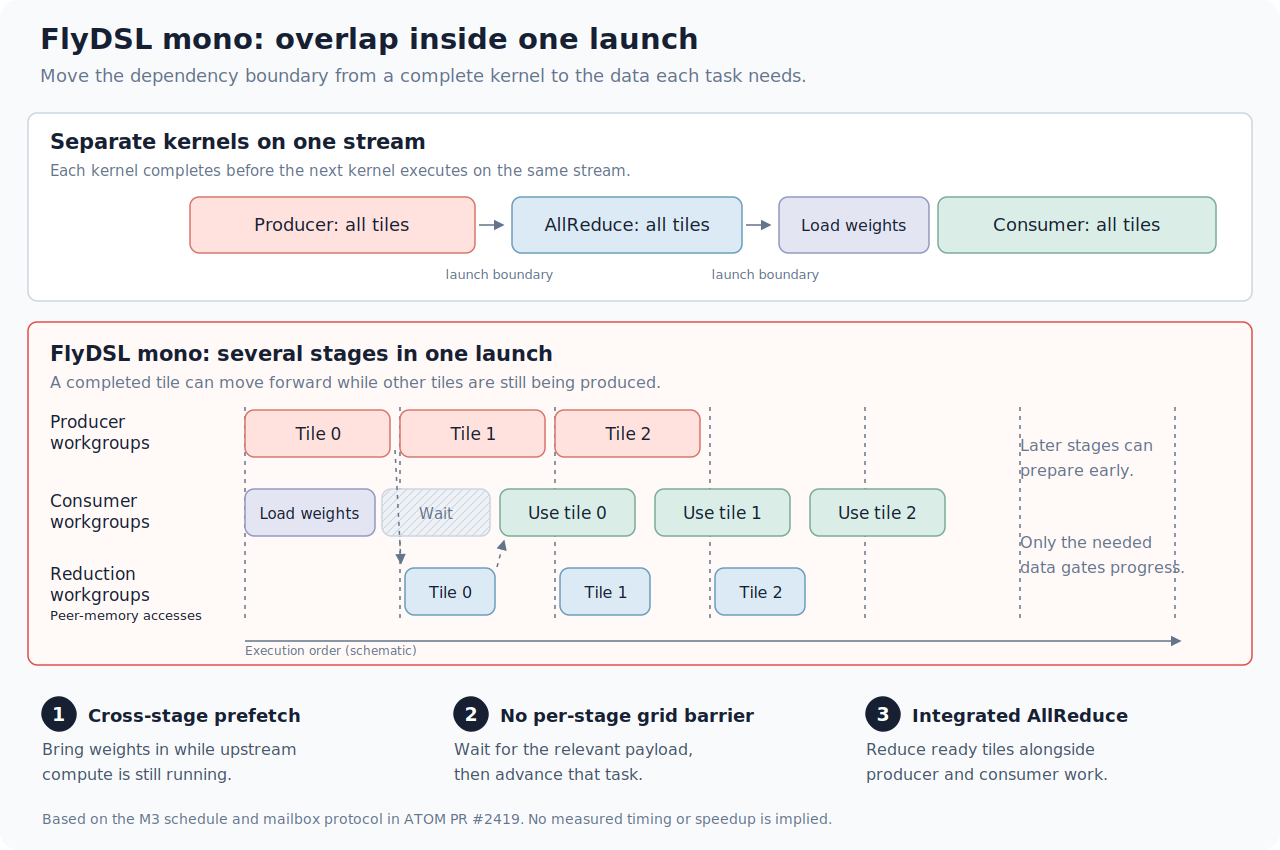
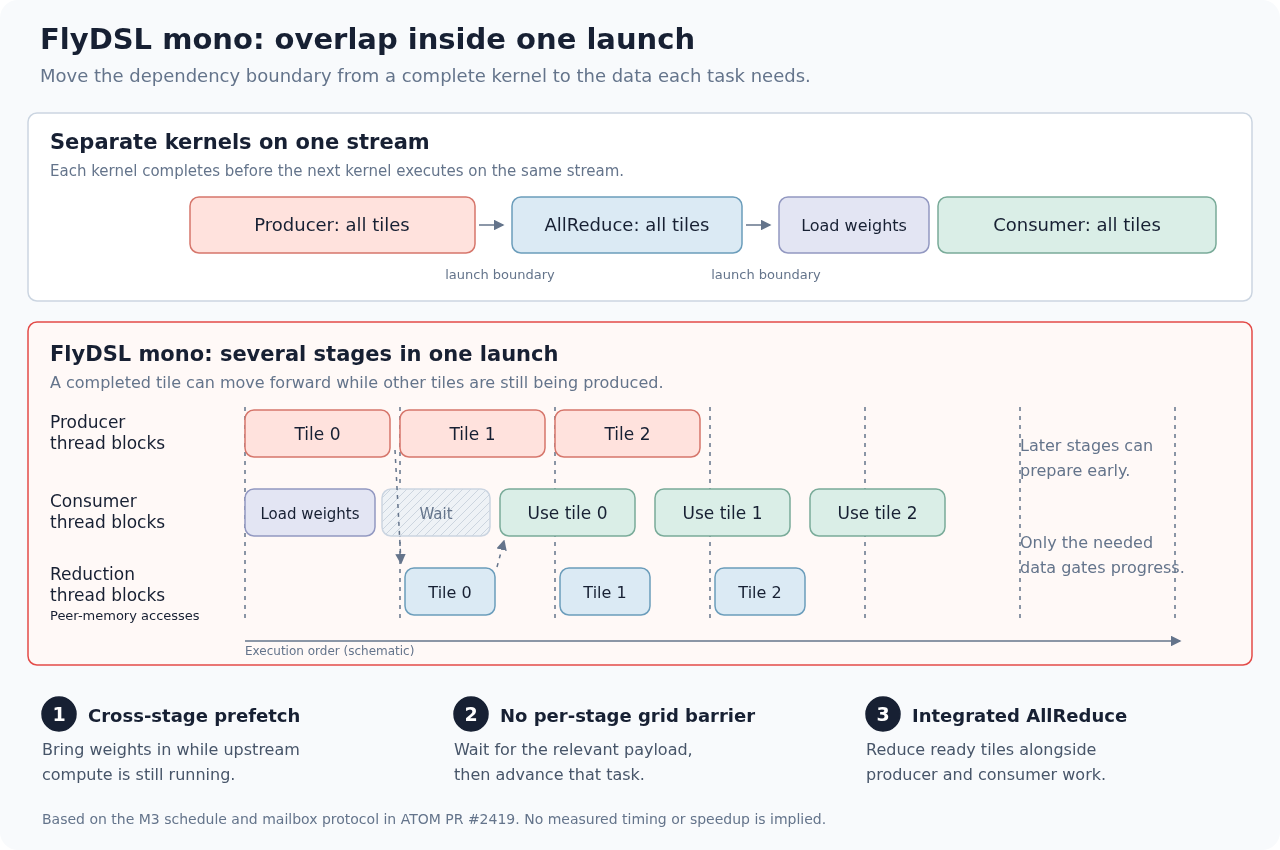
Center ATOM implementation and standardize thread block terminology

diff --git a/blogs/software-tools-optimization/flydsl-atom-mono-kernels/README.md b/blogs/software-tools-optimization/flydsl-atom-mono-kernels/README.md
@@ -7,12 +7,12 @@ thumbnail: 'mono-overlap.png'
 tags: AI/ML, Performance
 category: Software tools & optimizations
 target_audience: GPU kernel developers and LLM inference engineers
-key_value_propositions: Explains how FlyDSL gives developers control over decode scheduling, with a MiniMax-M3 case study in ATOM and measured throughput and interactivity gains under controlled replay in vLLM.
+key_value_propositions: Explains how ATOM implements mono decode with FlyDSL and how vLLM adapts ATOM's components, with measured throughput and interactivity gains under controlled replay.
 language: English
 myst:
     html_meta:
         "property=og:locale": "en_US"
-        "description lang=en": "Explore how ATOM uses FlyDSL mono kernels for high-interactivity LLM serving, with scheduling examples and controlled measurements of reuse in vLLM."
+        "description lang=en": "Explore FlyDSL mono decode in ATOM for MiniMax-M3 and DeepSeek-V4.1, and the extension of ATOM's components to vLLM with controlled serving measurements."
         "keywords": "FlyDSL, mono kernel, interactivity, AgentX, InferenceX, ATOM, vLLM, MiniMax-M3, DeepSeek-V4.1-Flash, TileRT, ROCm, AMD Instinct MI355X, LLM inference, decode"
         "amd_category": "Developer Resources"
         "amd_asset_type": "Blog"
@@ -27,7 +27,7 @@ myst:
 
 **Extremely high interactivity is critical for LLM applications with strict latency requirements.** Fast token generation helps a coding agent produce its next action sooner and move on to the next step. The goal is to increase throughput while maintaining that responsiveness.
 
-[FlyDSL](https://github.com/ROCm/FlyDSL) gives developers the flexibility to write and tune GPU code at the **block, wavefront, thread, and instruction levels** in Python. They can control how work is assigned, how data is laid out and moved, and where synchronization is needed. These controls let them optimize individual operations and connect the stages of a model layer into **mono kernels** that overlap independent work and reduce waits. This article shows how [ATOM][4] uses that flexibility for MiniMax-M3, and how ATOM's components and scheduling ideas are reused for DeepSeek-V4.1-Flash in [vLLM](https://github.com/vllm-project/vllm). [2], [3], [8], [11]
+[FlyDSL](https://github.com/ROCm/FlyDSL) gives developers the flexibility to write and tune GPU code at the **block, wavefront, thread, and instruction levels** in Python. They can control how work is assigned, how data is laid out and moved, and where synchronization is needed. These controls let them optimize individual operations and connect the stages of a model layer into **mono kernels** that overlap independent work and reduce waits. [ATOM][4] uses these capabilities to build mono decode for MiniMax-M3 and DeepSeek-V4.1; [vLLM](https://github.com/vllm-project/vllm) adapts ATOM's DeepSeek components. [2], [3], [8], [11]
 
 ## Why mono kernels speed up decode
 
@@ -43,9 +43,9 @@ The related ROCm posts on [low-latency matrix multiplications (GEMMs)](https://r
 
 ## What FlyDSL provides, and who does what
 
-In these implementations, a **mono kernel** combines several stages in one launch. It uses a grid of **workgroups (thread blocks in HIP)** designed to remain resident for that invocation: all workgroups must be able to run on the GPU at the same time. A workgroup can take on new tasks as the layer advances. Consumers wait for their required inputs while independent tasks continue elsewhere in the grid. [3], [7]
+In ATOM, a **mono kernel** combines several stages in one launch. It uses a grid of **thread blocks** designed to remain resident for that invocation: all thread blocks must be able to run on the GPU at the same time. A thread block can take on new tasks as the layer advances. Consumers wait for their required inputs while independent tasks continue elsewhere in the grid. [3], [7]
 
-Workgroups exchange intermediate results through global-memory buffers. Registers and Local Data Share (LDS), the software-managed on-chip memory local to each compute unit, hold local working data. The schedule uses workgroup barriers where needed; it avoids requiring the entire grid to finish every stage together. [3], [7]
+Thread blocks exchange intermediate results through global-memory buffers. Registers and Local Data Share (LDS), the software-managed on-chip memory local to each compute unit, hold local working data. The schedule uses thread block barriers where needed; it avoids requiring the entire grid to finish every stage together. [3], [7]
 
 ![Staged launches versus a resident mono grid with early loads and tile-level handoffs](images/mono-overlap.svg)
 
@@ -65,11 +65,13 @@ These capabilities make a mono schedule practical to write, but **FlyDSL does no
 | **Kernel developer** | Design the schedule, assign tasks, place weight prefetches, and define handoffs. Check that the compiled resource use allows residency and that waiting consumers cannot prevent producers from running. |
 | **Serving engine (ATOM, vLLM)** | Choosing the execution path for each step; runtime metadata, caches, and buffers; keeping all TP ranks on the same path; HIP Graph compatibility; correctness checks; and fallback to separate kernels. |
 
-The design is inspired by the **TileRT MonoKernel work** in the [InferenceMAX/InferenceX snapshot `8ac9834`](https://github.com/SemiAnalysisAI/InferenceX/tree/8ac98344b038a3f2da20a565fe9b974772a67ef9), cited by FlyDSL #1204 and associated with [#3389](https://github.com/SemiAnalysisAI/InferenceX/pull/3389). ATOM contributes the M3 and DeepSeek-V4.1 implementations and shared [`atom/mono/`](https://github.com/ROCm/ATOM/tree/5e8d9131739aaa53836713c79e6d547c23980f03/atom/mono) components. vLLM adapts ATOM's DeepSeek stages and common helpers to its own weights, numerical operations, buffers, and execution paths. This is reuse of code and scheduling ideas with engine-specific adaptation. [5], [6], [8], [11]
+The design is inspired by the **TileRT MonoKernel work** in the [InferenceMAX/InferenceX snapshot `8ac9834`](https://github.com/SemiAnalysisAI/InferenceX/tree/8ac98344b038a3f2da20a565fe9b974772a67ef9), cited by FlyDSL #1204 and associated with [#3389](https://github.com/SemiAnalysisAI/InferenceX/pull/3389). [5], [6]
 
-## Case study: MiniMax-M3 in ATOM
+## Bringing mono kernels to ATOM
 
-M3's [mono kernel](https://github.com/ROCm/ATOM/blob/2b9f3412e466fd4172a4a621fe9215a1041130c1/atom/models/minimax_m3/mono/kernels/post_attn.py) covers the complete sparse-layer path in **one launch per TP rank**. That path includes input projections, index scoring and selection, sparse attention, the attention AllReduce, routing, the shared and routed experts, and the MoE AllReduce. The first three dense layers keep ATOM's separate-kernel modules. [1], [3]
+ATOM implements mono decode for MiniMax-M3 and DeepSeek-V4.1 and provides reusable [`atom/mono/`](https://github.com/ROCm/ATOM/tree/5e8d9131739aaa53836713c79e6d547c23980f03/atom/mono) components. [1], [8]
+
+For MiniMax-M3, ATOM's [mono kernel](https://github.com/ROCm/ATOM/blob/2b9f3412e466fd4172a4a621fe9215a1041130c1/atom/models/minimax_m3/mono/kernels/post_attn.py) covers the complete sparse-layer path in **one launch per TP rank**. That path includes input projections, index scoring and selection, sparse attention, the attention AllReduce, routing, the shared and routed experts, and the MoE AllReduce. The first three dense layers keep ATOM's separate-kernel modules. [1], [3]
 
 ![MiniMax-M3 sparse-layer stages inside one FlyDSL launch](images/minimax-mono-flow.svg)
 
@@ -77,15 +79,15 @@ M3's [mono kernel](https://github.com/ROCm/ATOM/blob/2b9f3412e466fd4172a4a621fe9
 
 Three mechanisms show how FlyDSL's controls address the waits described above. The results later compare complete implementations; they do not measure each mechanism's contribution separately.
 
-### 1. Workgroups carry the layer across stages
+### 1. Thread blocks handle tasks across stages
 
-M3 launches **256 workgroups of 512 threads**, or eight **64-thread wavefronts (wave64)** per workgroup, targeting one resident workgroup per MI355X compute unit. M3's Python schedule assigns each workgroup a sequence of tasks: a workgroup that performs attention can take on routing or expert work later in the same launch. The stages share one launch, and local handoffs let tasks advance without a grid-wide barrier at every stage. Synchronization still has a cost, but it can follow the data each task needs. [3], [9]
+For M3, ATOM launches **256 thread blocks of 512 threads**, or eight **64-thread wavefronts (wave64)** per thread block, targeting one resident thread block per MI355X compute unit. ATOM's Python schedule assigns each thread block a sequence of tasks: a thread block that performs attention can take on routing or expert work later in the same launch. The stages share one launch, and local handoffs let tasks advance without a grid-wide barrier at every stage. Synchronization still has a cost, but it can follow the data each task needs. [3], [9]
 
-The grid size alone does not guarantee progress. Register and LDS use must allow all workgroups to be resident, and the task order must let producers finish the data that consumers are waiting for. The developer checks these conditions; the engine also checks deployment requirements. For example, the cited vLLM path rejects mono on a partitioned GPU with fewer than 256 compute units. [3], [11]
+The grid size alone does not guarantee progress. Register and LDS use must allow all thread blocks to be resident, and the task order must let producers finish the data that consumers are waiting for. The developer checks these conditions; the engine also checks deployment requirements. For example, the cited vLLM path rejects mono on a partitioned GPU with fewer than 256 compute units. [3], [11]
 
 ### 2. Weight loads overlap the preceding computation
 
-A workgroup can request the weights for a later stage before that stage receives its input. In M3's MoE path for 1–4 token rows, **after the first up/gate task round**, the workgroup issues loads for the down-projection weights, which a later stage will use. These loads cover the first token's routed experts and the shared expert. They can remain in flight during subsequent computation and data exchange. [3], [9]
+A thread block can request the weights for a later stage before that stage receives its input. In M3's MoE path for 1–4 token rows, **after the first up/gate task round**, the thread block issues loads for the down-projection weights, which a later stage will use. These loads cover the first token's routed experts and the shared expert. They can remain in flight during subsequent computation and data exchange. [3], [9]
 
 The timing is a tuned choice. Issuing the loads too early competes with upstream loads for bandwidth and keeps vector registers occupied for longer. Issuing them too late leaves the dependency-chain wait in place. Because FlyDSL exposes when loads are issued, the developer can place this point deliberately and move it when the schedule changes.
 
@@ -93,7 +95,7 @@ The timing is a tuned choice. Issuing the loads too early competes with upstream
 
 M3's [mailbox helper](https://github.com/ROCm/ATOM/blob/2b9f3412e466fd4172a4a621fe9215a1041130c1/atom/models/minimax_m3/mono/kernels/common.py) stores each value beside a tag in global-memory or peer-accessible buffers. **The consumer reads the tag and the value together**, so a successful readiness check also supplies the data for its next computation. The tag combines the decode-step counter and layer number to distinguish the current invocation from an earlier one. The memory-access protocol makes the data visible: it uses device scope within a GPU and system scope between peer GPUs. [3], [7]
 
-The TP AllReduce applies the same idea across GPUs. Workgroups exchange partial sums through peer memory inside the kernel and reduce completed **32-channel output tiles** while other workgroups are still producing other tiles. Residual updates can consume reduced tiles immediately; RMSNorm, which needs the complete hidden row, waits for that row rather than for a separate AllReduce kernel to finish. [3]
+The TP AllReduce applies the same idea across GPUs. Thread blocks exchange partial sums through peer memory inside the kernel and reduce completed **32-channel output tiles** while other thread blocks are still producing other tiles. Residual updates can consume reduced tiles immediately; RMSNorm, which needs the complete hidden row, waits for that row rather than for a separate AllReduce kernel to finish. [3]
 
 ### Results in ATOM
 
@@ -115,9 +117,9 @@ All times are in milliseconds; parentheses give speedup relative to Separate.
 
 M3's source PR reports bit-identical index selection against the reference over 3K–1.04M contexts and bit-identical outputs through 16 chained layers with CP off versus on at 3K, 37K, and 200K contexts. It also reports serving a 1,040,186-token request. GSM8K chat five-shot scores are 0.9447 for the separate path, 0.9371 and 0.9424 for two mono runs, and 0.9378 for mono + CP. These scores provide task-level checks, but do not establish exact numerical equivalence or unchanged quality across tasks. [1]
 
-## Across frameworks: DeepSeek-V4.1-Flash in vLLM
+## Extending ATOM's mono kernels to vLLM
 
-The second test of the approach is whether it carries beyond one engine and one model. vLLM runs DeepSeek-V4.1-Flash decode on MI355X with FlyDSL mono kernels, merged in two PRs. [11], [12]
+vLLM adapts ATOM's DeepSeek stages and shared helpers to its own weights, numerical operations, buffers, and execution paths. The resulting DeepSeek-V4.1-Flash mono decode implementation runs on MI355X and was merged in two PRs. [8], [11], [12]
 
 ### The fusion boundary follows the model
 
@@ -190,21 +192,21 @@ The results suggest where mono kernels are useful and what deploying them requir
 Start with the [FlyDSL mono components](https://github.com/ROCm/FlyDSL/tree/31f389b3838d83f82e5bd9ccf646076243e24e18/kernels/monokernel) and [ATOM's shared mono framework](https://github.com/ROCm/ATOM/tree/5e8d9131739aaa53836713c79e6d547c23980f03/atom/mono):
 
 1. **Find the waits.** Profile the separate path at the decode widths you serve. Map which inputs each stage actually waits for and where communication sits on the critical path.
-2. **Write the schedule in FlyDSL.** Reuse the GEMM, quantization, mailbox, and AllReduce components. Choose the fusion boundary from the model's dependencies, give workgroups independent work so that they can prefetch, and specialize task placement per width.
+2. **Write the schedule in FlyDSL.** Reuse the GEMM, quantization, mailbox, and AllReduce components. Choose the fusion boundary from the model's dependencies, give thread blocks independent work so that they can prefetch, and specialize task placement per width.
 3. **Integrate and evaluate.** Add dispatch conditions and a fallback, keep ranks in lockstep, and verify HIP Graph replay. Check outputs against the separate path with tools such as `ATOM_MONO_CHECK`, then run task evaluations with actual rejection sampling. Sweep concurrency and compare throughput at the required interactivity, while also recording TTFT.
 
 Bring a model, a profile, or a measured schedule improvement to [FlyDSL](https://github.com/ROCm/FlyDSL), [ATOM](https://github.com/ROCm/ATOM), or [vLLM](https://github.com/vllm-project/vllm).
 
 ## Appendix: M3 implementation notes
 
-These details support the case study but are not needed to follow the main argument.
+These notes describe ATOM's M3 implementation in more detail.
 
 **Stages inside the launch.** The [pre-attention stages](https://github.com/ROCm/ATOM/blob/2b9f3412e466fd4172a4a621fe9215a1041130c1/atom/models/minimax_m3/mono/kernels/pre_attn.py) normalize and quantize inputs to per-token FP8. They then use FP8 MFMA (matrix fused multiply-add) instructions for the Q/K/V and index projections, followed by head normalization, RoPE, and cache insertion. Index scoring and selection choose up to 16 blocks of 128 tokens; sparse attention uses eight partitions of up to 256 keys. In the [index scorer](https://github.com/ROCm/ATOM/blob/2b9f3412e466fd4172a4a621fe9215a1041130c1/atom/models/minimax_m3/mono/kernels/index_score.py), only a block that may contain newly inserted keys waits for that insertion. The router selects four routed experts alongside a shared expert. Both narrow and wider MoE paths use MXFP8 activation operands with MXFP4 weights in native scaled MFMA instructions. [3]
 
 **Layout choices.** Two choices in the [M3 layout code](https://github.com/ROCm/ATOM/blob/2b9f3412e466fd4172a4a621fe9215a1041130c1/atom/models/minimax_m3/mono/layout.py) show why explicit layout control matters: [9]
 
 - At 16 token rows, one operand layout produced 16-way LDS bank conflicts. The source comment records them as costing about **3 µs per up/gate task**. Adding 16 bytes to each row's pitch removes those conflicts.
-- In the source-reported four-GPU configuration, **240 expert workgroups** poll one 1 KB router-score payload. Writing eight copies spreads those reads; the source comment records K4 layer-kernel latency falling from **37.3 to 35.9 µs** for that configuration.
+- In the source-reported four-GPU configuration, **240 expert thread blocks** poll one 1 KB router-score payload. Writing eight copies spreads those reads; the source comment records K4 layer-kernel latency falling from **37.3 to 35.9 µs** for that configuration.
 
 The M3 work also added or adopted FlyDSL primitives such as `fx.rocdl.readlane`, `ballot`, and `fx.ctpop`. [1]
 
